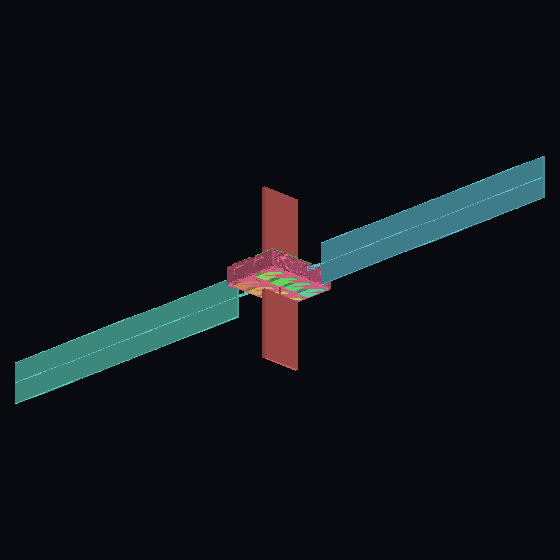
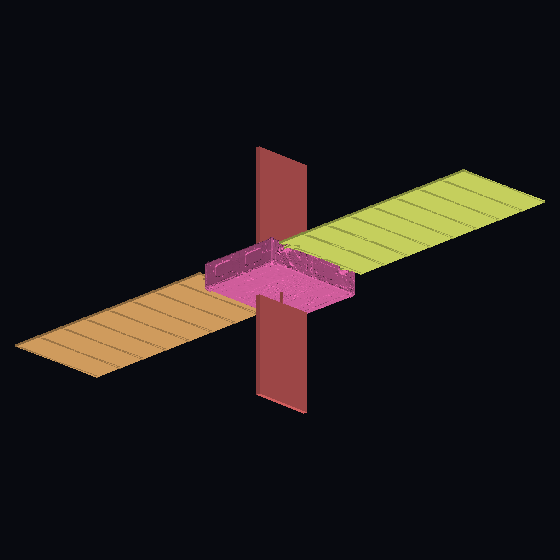
twin: redwire per user reference — flat coplanar wings on the edge lugs, the bay's own modules ARE the GPUs
The generated GPU boxes are gone: the payload bay's own row of seven
front-edge units are the discrete GPU components. The click popup is
now architecture-aware (matchSelection takes the active architecture
from state): on redwire, /Hull/...tripo_part_{13,1,15,12,14,16,11}
resolve left-to-right to "GPU module 01..07" -> GPU panel, and the
deck plate (part 9) to the structure card; other hulls that reuse the
same generic tripo part names are unaffected.

The wings are now FLAT, cell face parallel to the deck plane, bolted
straight onto the deck's two edge lugs (vertex survey of part 9:
native +-X edges each carry two lugs, y in [-0.36,-0.29]/[0.31,0.37],
z in [-0.20,-0.13]; after the 90-deg hull rotation that is x ~ +-0.50
at z = 0.081 with the deck edge at y = 0.704). No boom, no yoke — two
small hinge plates on the lugs, then clusters chain outward along Y by
their 0.816-u span, so adding panels visibly extends the wing one
cluster at a time. The tiles use the solar asset's NATIVE pose (cells
+Z, long axis across the bay — zero rotation ops); upright wings on
the other architectures are byte-identical to before. Cell area per
cluster is orientation-independent, so all physics margins are
unchanged (live check: frontier fit ok +28%/+8%, 405B analytic decode
548 W / 649 tok/s).

The redwire gallery thumbnail is re-rendered in place (same params
fingerprint, new generator output) and the stale scratch stage is
gone. e2e design_gallery/workload_panel/llm_inference green, tsc
[…]

Changed region(s): [[0.0, 0.2429, 0.9714, 0.7589]]

diff --git a/space-compute-demo/web/src/components/twin/TwinModulePopup.tsx b/space-compute-demo/web/src/components/twin/TwinModulePopup.tsx
@@ -38,6 +38,14 @@ interface Match {
 // Rack order → contiguous 1..12 server numbering (left-to-right, top-to-bottom).
 const RACK_ORDER: Record<string, number> = { UpY: 0, UnY: 1, LpY: 2, LnY: 3 }
 
+// Redwire payload bay: the asset's OWN front-edge units are the discrete
+// GPU modules (tripo part ids, ordered along the bay edge); tripo_part_9 is
+// the deck plate itself. Only consulted when the redwire architecture is
+// active — other hulls reuse the same generic tripo part names.
+const REDWIRE_GPU_MODULES: Record<string, number> = {
+  '13': 1, '1': 2, '15': 3, '12': 4, '14': 5, '16': 6, '11': 7,
+}
+
 // Backbone tripo_part_<n> → structural role.
 function structureSub(part: string): StructureSub {
   if (part === '1') return 'spine'
@@ -47,8 +55,26 @@ function structureSub(part: string): StructureSub {
   return 'antenna' // new_0 / new_1 + any other
 }
 
-function matchSelection(path: string | null): Match | null {
+function matchSelection(path: string | null, architecture?: string): Match | null {
   if (!path) return null
+
+  // Redwire bay FIRST: its hull carries the GPU modules as real sub-parts,
+  // so /Hull/…tripo_part_<n> means a clickable compute unit there — not the
+  // generic structure card the other hulls fall through to.
+  if (architecture === 'redwire') {
+    const rw = /\/Hull\/.*tripo_part_(\d+)/.exec(path)
+    if (rw) {
+      const num = REDWIRE_GPU_MODULES[rw[1]]
+      if (num != null) {
+        return {
+          kind: 'server',
+          subtitle: `GPU module ${String(num).padStart(2, '0')} · live`,
+          ref: String(num),
+        }
+      }
+      return { kind: 'structure', subtitle: 'Platform · payload bay', ref: 'spine' }
+    }
+  }
 
   // Server groups: "Servers" (single truss) or "ServersU"/"ServersD" (the
   // twin-truss tower's two segments); blades carry the matching U/D suffix.
@@ -90,7 +116,8 @@ const HEADER: Record<Kind, { title: string; swatch: string }> = {
 export function TwinModulePopup() {
   const selected  = useDemoStore((s) => s.selectedPrim)
   const selectObj = useDemoStore((s) => s.selectObject)
-  const match     = useMemo(() => matchSelection(selected), [selected])
+  const arch      = useDemoStore((s) => s.lastState?.twin_geometry?.architecture)
+  const match     = useMemo(() => matchSelection(selected, arch), [selected, arch])
 
   useEffect(() => {
     if (!match) return

diff --git a/space-compute-demo/web/src/types/messages.ts b/space-compute-demo/web/src/types/messages.ts
@@ -217,7 +217,8 @@ export interface SatelliteConfig {
 }
 
 /** Hull configuration — each is a genuinely different satellite shape. */
-export type Architecture = 'truss' | 'twin_truss' | 'blanket' | 'lumid' | 'dish';
+export type Architecture =
+  | 'truss' | 'twin_truss' | 'blanket' | 'lumid' | 'dish' | 'redwire';
 
 /** Deployable geometry knobs (Feature 3) — hull architecture + solar segment
  * count + radiator size/ratio. Drives the regenerated USD model and the

diff --git a/space-compute-demo/tools/gen_twin_satellite.py b/space-compute-demo/tools/gen_twin_satellite.py
@@ -249,18 +249,18 @@ REDWIRE_NATIVE  = 1.0          # largest native dim (Y — becomes X after rot)
 REDWIRE_NATIVE_CENTER = (0.0, 0.0, -0.2207)
 REDWIRE_TARGET_U = 1.5         # deck ≈ 2.7 m across (compact bay, ~1/3 the
                                # volume of the first 2.2-u cut per user ref)
-# Wing-yoke root along ±Y: deck half-Y after rot90 = 0.469·1.5 ≈ 0.70 —
-# seat the yoke bracket just inside the edge face.
-REDWIRE_WING_Y0 = 0.66
+# The deck's native ±X edges (→ ±Y sides after rot90) each carry TWO
+# protruding attachment lugs (survey scratchpad/find_tabs: native
+# y ∈ [−0.36,−0.29] and [0.31,0.37], z ∈ [−0.20,−0.13], main plate edge at
+# |x| ≈ 0.42, lug tips at 0.469). The solar wings bolt STRAIGHT onto those
+# lugs: flat panels whose cell face is PARALLEL to the deck plane (+Z up —
+# the asset's native orientation, no rotation at all), first cluster at the
+# deck edge, growth chaining outward cluster by cluster.
+REDWIRE_WING_Y0 = 0.71         # first panel inner edge ≈ deck edge (0.704)
+REDWIRE_WING_Z  = 0.081        # lug mid-plane (native −0.167 recentred ×1.5)
+REDWIRE_LUG_X   = (-0.50, 0.49)  # lug centres after rot90
 # Radiator boom mount: deck half-Z = 0.124·1.5 ≈ 0.185, boom roots just inside.
 REDWIRE_RAD_Z   = 0.17
-# Discrete GPU modules seated in the open bay: two rows of four, proud of
-# the deck rim so they read as independent compute units (named
-# Server_RW_<n> — the click popup resolves them to Blade 01..08).
-REDWIRE_SRV_COLS_X = (-0.54, -0.18, 0.18, 0.54)
-REDWIRE_SRV_ROWS_Y = (-0.30, 0.30)
-REDWIRE_SRV_W, REDWIRE_SRV_D, REDWIRE_SRV_H = 0.26, 0.46, 0.42
-REDWIRE_SRV_Z = 0.02           # centre: bottom near tray floor, top proud of rim
 
 # Closeup camera — a true 3/4 (from +X / -Y / above) so the solar wings (face
 # +X) AND the perpendicular radiators (face ±Y, top/bottom) are both readable.
@@ -700,32 +700,31 @@ def deployable_prototypes(include_solar: bool = True) -> str:
 
 def solar_panel(name: str, cx: float, cy: float, cz: float,
                 scale: tuple[float, float, float],
-                horizontal: bool = False) -> str:
+                flat: bool = False) -> str:
     """One solar tile. Full-asset mode: an instanceable internal reference to
     the shared /World/Satellite/_Protos/SolarTile prototype (rotate/scale/
     material live there) carrying only this tile's translate. Lite mode: a
     12-tri box with the same world footprint for the software previews.
 
-    `horizontal` lays the tile down: an extra rotateX=90 AFTER the stand-up
-    rotateY (ops apply right-to-left) turns the long axis from world Z
-    (upright wall) to world Y (low flat band along the deploy direction);
-    the cell normal stays +X either way."""
+    Upright (default): rotateY stands the panel up — long axis → world Z,
+    cell normal → +X (the truss/blanket wing walls). `flat`: NO rotation at
+    all — the asset's native pose already lies cell-face +Z with the long
+    axis along X, which is exactly the redwire deck-parallel orientation."""
     sx, sy, sz = scale
     if PREVIEW_LITE:
-        # Same world-space footprint as the rotated+scaled asset, as a
-        # 12-tri box instead of a 1.9 M-tri scan. Upright: native X → world
-        # Z (height), native Y → world Y (deploy). Horizontal: native X →
-        # world Y, native Y → world Z. Thickness is world X in both.
-        if horizontal:
+        # Same world-space footprint as the (possibly rotated) scaled asset
+        # as a 12-tri box instead of a 1.9 M-tri scan. Upright: native X →
+        # world Z (height), native Y → world Y (deploy), thickness → X.
+        # Flat: native axes ARE world axes (long X, wide Y, thin Z).
+        if flat:
             return box_mesh(name, cx, cy, cz,
-                            SOLAR_NATIVE[2] * sz, SOLAR_NATIVE[0] * sx,
-                            SOLAR_NATIVE[1] * sy, "SolarCellLite")
+                            SOLAR_NATIVE[0] * sx, SOLAR_NATIVE[1] * sy,
+                            SOLAR_NATIVE[2] * sz, "SolarCellLite")
         return box_mesh(name, cx, cy, cz,
                         SOLAR_NATIVE[2] * sz, SOLAR_NATIVE[1] * sy,
                         SOLAR_NATIVE[0] * sx, "SolarCellLite")
-    rot_x = '    float xformOp:rotateX = 90\n' if horizontal else ''
-    order = ('["xformOp:translate", "xformOp:rotateX", "xformOp:rotateY", "xformOp:scale"]'
-             if horizontal
+    rot = '' if flat else f'    float xformOp:rotateY = {PANEL_RY}\n'
+    order = ('["xformOp:translate", "xformOp:scale"]' if flat
              else '["xformOp:translate", "xformOp:rotateY", "xformOp:scale"]')
     return (
         f'def Xform "{name}" (\n'
@@ -734,8 +733,7 @@ def solar_panel(name: str, cx: float, cy: float, cz: float,
         f')\n'
         f'{{\n'
         f'    double3 xformOp:translate = ({cx:.4f}, {cy:.4f}, {cz:.4f})\n'
-        f'{rot_x}'
-        f'    float xformOp:rotateY = {PANEL_RY}\n'
+        f'{rot}'
         f'    double3 xformOp:scale = ({sx:.4f}, {sy:.4f}, {sz:.4f})\n'
         f'    uniform token[] xformOpOrder = {order}\n'
         f'}}'
@@ -743,41 +741,41 @@ def solar_panel(name: str, cx: float, cy: float, cz: float,
 
 
 def solar_cluster(prefix: str, cx: float, cy: float, cz: float,
-                  horizontal: bool = False) -> list[str]:
+                  flat: bool = False) -> list[str]:
     """A 2×2 grid of four small panels filling one full-panel footprint.
-    Upright: the big panel spans H (along Z) × D (along Y). Horizontal
-    (tiles laid down): H runs along Y and D along Z, so the quadrant
-    offsets swap axes — total cell area is identical either way (the
-    physics area formula doesn't care about orientation)."""
+    Upright: the big panel spans H (along Z) × D (along Y). Flat (redwire,
+    deck-parallel): H runs along X (across the bay) and D along Y (the
+    deploy direction), tiles in the X-Y plane — total cell area is
+    identical either way (the physics area formula doesn't care about
+    orientation)."""
     H = SOLAR_NATIVE[0] * PANEL_SCALE[0]      # full-panel long axis
     D = SOLAR_NATIVE[1] * PANEL_SCALE[1]      # full-panel deploy axis
     sub = (PANEL_SCALE[0] * SUB_FRAC, PANEL_SCALE[1] * SUB_FRAC, PANEL_SCALE[2])
     tiles = []
+    if flat:
+        for r, xs in enumerate((-1.0, 1.0)):      # two columns (X, across)
+            for c, ys in enumerate((-1.0, 1.0)):  # two rows (Y, outward)
+                tiles.append(solar_panel(f"{prefix}_{r}{c}",
+                                         cx + xs * H / 4.0, cy + ys * D / 4.0,
+                                         cz, sub, flat=True))
+        return tiles
     for r, zs in enumerate((1.0, -1.0)):          # two rows (Z)
         for c, ys in enumerate((-1.0, 1.0)):      # two columns (Y)
-            dy, dz = ((ys * H / 4.0, zs * D / 4.0) if horizontal
-                      else (ys * D / 4.0, zs * H / 4.0))
             tiles.append(solar_panel(f"{prefix}_{r}{c}",
-                                     cx, cy + dy, cz + dz, sub, horizontal))
+                                     cx, cy + ys * D / 4.0, cz + zs * H / 4.0,
+                                     sub))
     return tiles
 
 
-def solar_wing(side: float, y_root: float = 0.0,
-               horizontal: bool = False) -> str:
+def solar_wing(side: float) -> str:
     """One deployed solar wing: a thin support boom from the central bracket
     out along `side`·Y, carrying N_PANELS chained panel clusters. Each cluster
-    is a 2×2 grid of four small panels with the cell face toward +X (sun
-    side) on both wings — standing upright by default, laid flat with
-    `horizontal` (long axis along the deploy direction, so the cluster
-    pitch along Y grows from D to H). `y_root` shifts the whole wing
-    outward along its side — hull architectures whose body is wider than
-    the truss (redwire deck) seat the yoke at their edge face instead of
-    the truss bracket."""
+    is a 2×2 grid of four small panels, standing upright with the cell face
+    toward +X (sun side) on both wings."""
     s = side
-    deploy = (SOLAR_NATIVE[0] * PANEL_SCALE[0] if horizontal
-              else SOLAR_NATIVE[1] * PANEL_SCALE[1])   # per-cluster Y span
+    deploy = SOLAR_NATIVE[1] * PANEL_SCALE[1]          # per-cluster span along Y
     X, Z = SOLAR_X, SOLAR_Z
-    r = y_root
+    r = 0.0
     # Tapered deployment yoke: root bracket → hinge clevis + bright pin →
     # 3-segment stepped taper → tip fork gripping the first panel. Reads as an
     # engineered cantilever instead of a crude rod.
@@ -794,8 +792,7 @@ def solar_wing(side: float, y_root: float = 0.0,
     ]
     for i in range(N_PANELS):
         cy = (r + BOOM_Y1 + deploy / 2.0 + i * (deploy + PANEL_GAP)) * s
-        parts.extend(solar_cluster(f"Cluster{i}", SOLAR_X, cy, SOLAR_Z,
-                                   horizontal))
+        parts.extend(solar_cluster(f"Cluster{i}", SOLAR_X, cy, SOLAR_Z))
     name = "WingPosY" if side > 0 else "WingNegY"
     body = "\n".join(parts)
     return f'def Xform "{name}"\n{{\n{indent(body, "    ")}\n}}'
@@ -833,12 +830,36 @@ def blanket_wing(side: float) -> str:
     return f'def Xform "{name}"\n{{\n{indent(body, "    ")}\n}}'
 
 
+def redwire_wing(side: float) -> str:
+    """Redwire flat wing: panel face PARALLEL to the deck plane (cells +Z),
+    bolted STRAIGHT onto the deck's two edge lugs — no boom, no yoke. Two
+    small hinge plates bridge the lug tips (x ≈ ±0.5, the deck edge at
+    y ≈ 0.70) to the first cluster's inner edge; each extra cluster chains
+    outward along Y by its D span, so growing the wing visibly adds panels
+    one after another off the bay edge."""
+    s = side
+    H = SOLAR_NATIVE[0] * PANEL_SCALE[0]      # cluster span across X (1.42)
+    D = SOLAR_NATIVE[1] * PANEL_SCALE[1]      # cluster span outward Y (0.816)
+    Z = REDWIRE_WING_Z
+    parts = [
+        box_mesh(f"Hinge{'A' if lx < 0 else 'B'}",
+                 lx, (REDWIRE_WING_Y0 + 0.005) * s, Z,
+                 0.12, 0.15, 0.026, "SolarFrame")
+        for lx in REDWIRE_LUG_X
+    ]
+    for i in range(N_PANELS):
+        cy = (REDWIRE_WING_Y0 + D / 2.0 + i * (D + PANEL_GAP)) * s
+        parts.extend(solar_cluster(f"Cluster{i}", 0.0, cy, Z, flat=True))
+    name = "WingPosY" if side > 0 else "WingNegY"
+    body = "\n".join(parts)
+    return f'def Xform "{name}"\n{{\n{indent(body, "    ")}\n}}'
+
+
 def solar_group() -> str:
     if ARCHITECTURE == "blanket":
         wing = blanket_wing
     elif ARCHITECTURE == "redwire":
-        def wing(side: float) -> str:
-            return solar_wing(side, y_root=REDWIRE_WING_Y0, horizontal=True)
+        wing = redwire_wing
     else:
         wing = solar_wing
     body = wing(1.0) + "\n" + wing(-1.0)
@@ -873,33 +894,6 @@ def radiator_panel(name: str, cx: float, cy: float, cz: float) -> str:
         f'    uniform token[] xformOpOrder = ["xformOp:translate", "xformOp:rotateX", "xformOp:rotateZ", "xformOp:scale"]\n'
         f'}}'
     )
-
-
-def redwire_servers_group() -> str:
-    """Eight discrete GPU modules seated in the open payload bay — two rows
-    of four, standing through the tray opening so their heat-spreader tops
-    sit proud of the deck rim (identifiable compute units, not anonymous
-    cargo). Paths are /World/Satellite/Servers/Server_RW_<n>, which the
-    click popup's server matcher resolves to Blade 01..08 → GPU panel.
-    Plain box meshes (cheap) — identical in lite previews and Kit."""
-    parts = []
-    for n in range(8):
-        row, col = divmod(n, 4)
-        cx = REDWIRE_SRV_COLS_X[col]
-        cy = REDWIRE_SRV_ROWS_Y[row]
-        inner = "\n".join([
-            box_mesh("Chassis", cx, cy, REDWIRE_SRV_Z,
-                     REDWIRE_SRV_W, REDWIRE_SRV_D, REDWIRE_SRV_H,
-                     "ServerChassis"),
-            box_mesh("Heatsink", cx, cy,
-                     REDWIRE_SRV_Z + REDWIRE_SRV_H / 2.0 + 0.011,
-                     REDWIRE_SRV_W * 0.85, REDWIRE_SRV_D * 0.85, 0.022,
-                     "ServerHeatsink"),
-        ])
-        parts.append(f'def Xform "Server_RW_{n}"\n{{\n'
-                     f'{indent(inner, "    ")}\n}}')
-    body = "\n".join(parts)
-    return f'def Xform "Servers"\n{{\n{indent(body, "    ")}\n}}'
 
 
 def _radiator_mount_z() -> float:
@@ -1112,14 +1106,14 @@ def _architecture_parts() -> list[str]:
             radiator_group(),
         ]
     if ARCHITECTURE == "redwire":
-        # Compact flat payload bay; rotateZ=90 turns the avionics-module row
-        # to the +X (sun/camera) face, discrete GPU modules stand in the
-        # open tray, wings (laid horizontal) deploy off the clean ±Y edges,
-        # radiators off the ±Z deck faces.
+        # Compact flat payload bay; rotateZ=90 turns the bay's row of
+        # DISCRETE GPU MODULES (the asset's own front-edge units — the
+        # popup maps them to the GPU panel) to the +X sun/camera face,
+        # flat deck-parallel wings bolt onto the ±Y edge lugs, radiators
+        # boom off the ±Z deck faces.
         return [
             _hull_prim(REDWIRE_REF, REDWIRE_NATIVE, REDWIRE_TARGET_U,
                        REDWIRE_NATIVE_CENTER, rotate_z=90.0),
-            redwire_servers_group(),
             solar_group(),
             radiator_group(),
         ]
@@ -1160,9 +1154,8 @@ def _frame_radius_cm() -> float:
         hull_u = LUMID_TARGET_U if ARCHITECTURE == "lumid" else DISH_TARGET_U
         solar_tip = (hull_u / 2.0) * BACKBONE_SCALE
     elif ARCHITECTURE == "redwire":
-        # Horizontal tiles: the per-cluster Y pitch is the LONG axis H.
-        h_pitch = SOLAR_NATIVE[0] * PANEL_SCALE[0]
-        solar_tip = (REDWIRE_WING_Y0 + BOOM_Y1 + N_PANELS * h_pitch) * BACKBONE_SCALE
+        # Flat wings chain outward by their D span, straight off the deck edge.
+        solar_tip = (REDWIRE_WING_Y0 + N_PANELS * deploy) * BACKBONE_SCALE
     else:
         solar_tip = (BOOM_Y1 + N_PANELS * deploy) * BACKBONE_SCALE
     rad_tip = (_radiator_mount_z() + RAD_BOOM_LEN + RAD_LONG) * BACKBONE_SCALE

diff --git a/space-compute-demo/backend/design_presets.py b/space-compute-demo/backend/design_presets.py
@@ -81,10 +81,10 @@ PRESETS: dict[str, DesignPreset] = {p.id: p for p in [
         tagline="8x H200 · flat payload bay · frontier 405B serving",
         description=(
             "A dedicated LLM-serving node on a compact Redwire-style payload "
-            "bay: eight discrete H200 modules stand in the open tray running "
-            "Llama-405B as one tensor-parallel group, long horizontal GaAs "
-            "wings deploy off the bay edges and OSR radiators off the deck "
-            "faces."
+            "bay: the bay's own row of discrete GPU modules runs Llama-405B "
+            "as one tensor-parallel group, flat GaAs wings bolt onto the "
+            "bay-edge lugs coplanar with the deck, and OSR radiators boom "
+            "off the deck faces."
         ),
         config=SatelliteConfig(
             gpu="H200", solar_material="GaAs", solar_size="M",

diff --git a/README.md b/README.md
@@ -42,7 +42,7 @@ Geometry is parameterised at runtime via `usd/twin_params.json` (written by the 
 3. **Deployables editing** — the *Deployables* controls add/remove solar clusters (sides only) and resize / reshape the radiators; each change regenerates the USD model and reloads it in Kit.
 4. **Real-time physics** — solar illumination · panel area × efficiency · GPU workload · device power · radiator area × emissivity all feed a live power / thermal balance shown in the status cards and component panels. Editing the geometry changes the numbers immediately. See **[docs/physics.md](docs/physics.md)** for the full model.
 5. **Design library** — the *Designs* chip on the Twin page opens a gallery of complete satellite designs (`backend/design_presets.py`), each with a software-rendered thumbnail (`GET /designs/{id}/preview.png`, cached) and derived stats. Applying one (`POST /designs/{id}/apply`) switches the hardware loadout, deployable geometry (USD regen + Kit layer reload), GPU workload profile and platform constants together; hand-editing any knob afterwards degrades the active design to `custom`.
-6. **Six hull architectures** — each design is a genuinely different satellite shape (`twin_params.json` `architecture`): the classic single-truss, a 24-blade twin-truss tower, ISS-style ribbon blanket wings, the LUMID smallsat with integrated cross panels, a parabolic-dish comms hull with windmill wings, and the Redwire-style flat payload bay (GPUs inside the deck, avionics row on the sun face) with generated GaAs wings off the bay edges and boom radiators off the deck faces. Physics areas follow the architecture.
+6. **Six hull architectures** — each design is a genuinely different satellite shape (`twin_params.json` `architecture`): the classic single-truss, a 24-blade twin-truss tower, ISS-style ribbon blanket wings, the LUMID smallsat with integrated cross panels, a parabolic-dish comms hull with windmill wings, and the Redwire-style flat payload bay (its own row of discrete GPU modules faces the sun side, each independently clickable → GPU panel) with flat deck-parallel GaAs wings bolted onto the bay-edge lugs — added panels chain outward one by one — and boom radiators off the deck faces. Physics areas follow the architecture.
 7. **Typed AI workloads** — every schedule block runs a concrete job (`backend/ai_workloads.py`): Llama-3.3-70B pretraining/inference, Llama-3.1-8B fine-tuning, ViT-L/16 EO detection — resolved against the fitted GPU's dense datasheet TFLOPS into per-card MFU, effective TFLOPS, tokens/s / frames/s and heat, live in `satellite.workload_detail` and the GPU module popup.
 8. **Live orbital motion on the Twin page** — in the Kit close-up the Earth rotates under the live sub-satellite point and the sun disk + key light sweep the true zenith→sun angle (`satellite.sun_cos`), so ground track, day/night passes and eclipses play out in the viewport; with the stream offline the viewport falls back to a real-orbit chase view (`TwinOrbitFallback`) of the tracked satellite gliding along its SGP4-propagated ring, and the MiniOrbitHud reticle animates on a frame-rate-extrapolated sim clock. The backend refreshes the tracked satellite's kinematics on every `/state` read (single cached-Satrec sgp4 call), so Kit's 5 Hz poll sees continuous motion instead of 1 Hz steps.
 9. **Workload selector** — the *Workload* section in the Configurator switches the GPU job schedule live (`POST /workload_profile`); every option is annotated with how the current design copes (`GET /workload_profiles`: average demand vs solar supply, thermal ceiling, fit verdict, expected tokens/frames/kWh per cycle), and the panel shows the running job's model, MFU, effective TFLOPS, rate, electrical draw, per-GPU heat, radiated power and the cumulative output since the switch.

diff --git a/README.zh-CN.md b/README.zh-CN.md
@@ -42,7 +42,7 @@
 3. **可展开结构编辑** —— *Deployables* 控件用于增减太阳能板簇（仅限两侧）、调整散热板的大小与比例；每次改动都会重新生成 USD 模型并在 Kit 中重载。
 4. **实时物理** —— 太阳光照 · 面板面积 × 效率 · GPU 负载 · 设备功耗 · 散热板面积 × 发射率，统一汇入实时功率 / 热平衡，显示在状态卡片与组件面板中。改动几何，数字立即更新。完整模型见 **[docs/physics.zh-CN.md](docs/physics.zh-CN.md)**。
 5. **单星设计库** —— Twin 页顶部的 *Designs* 入口打开设计库窗口（`backend/design_presets.py`）：每个完整设计带软件渲染的缩略图（`GET /designs/{id}/preview.png`，带缓存）与派生参数卡。点击应用（`POST /designs/{id}/apply`）即一键切换硬件配置、可展开几何（USD 重新生成 + Kit 层重载）、GPU workload 档案与平台常数；之后手动改任何参数会把当前设计降级为 `custom`。
-6. **六种整星构型** —— 每个设计是真正不同的卫星形态（`twin_params.json` 的 `architecture`）：经典单桁架、24 刀片双桁架塔、ISS 式长条毯式翼、自带十字翼的 LUMID 小卫星、带抛物面天线的风车翼通信星，以及 Redwire 式扁平载荷舱（GPU 藏在舱内、电子设备列朝阳面，生成式 GaAs 太阳翼挂舱体两缘、支杆散热板出舱面）。物理面积随构型切换。
+6. **六种整星构型** —— 每个设计是真正不同的卫星形态（`twin_params.json` 的 `architecture`）：经典单桁架、24 刀片双桁架塔、ISS 式长条毯式翼、自带十字翼的 LUMID 小卫星、带抛物面天线的风车翼通信星，以及 Redwire 式扁平载荷舱（舱体自带的一排独立 GPU 组件朝阳面，逐个可点击弹出 GPU 面板；平板 GaAs 太阳翼与舱面平行、直接栓在舱缘凸耳上，加板时向外逐块延伸；支杆散热板出舱面）。物理面积随构型切换。
 7. **类型化 AI workload** —— 每个作业块都是具体任务（`backend/ai_workloads.py`）：Llama-3.3-70B 预训练/推理、Llama-3.1-8B 微调、ViT-L/16 对地检测——按所装 GPU 的数据手册稠密算力解析为每卡 MFU、有效 TFLOPS、tokens/s / frames/s 与产热，实时暴露于 `satellite.workload_detail` 与 GPU 模块弹窗。
 8. **Twin 页实时轨道运动** —— Kit 特写中，地球随实时星下点转动、太阳圆盘与主光沿真实天顶-太阳夹角（`satellite.sun_cos`）扫掠：地面轨迹、昼夜交替、进出地影都在视口中真实上演；流离线时视口回退为真实轨道追踪视图（`TwinOrbitFallback`），被跟踪卫星沿 SGP4 传播的轨道环滑行，左下 HUD 的卫星标记也在帧率级外插时钟上平滑运动。后端在每次 `/state` 读取时刷新被跟踪卫星的运动学（单次缓存 Satrec sgp4 调用），Kit 的 5Hz 轮询看到的是连续运动而非 1Hz 台阶。
 9. **Workload 选择器** —— Configurator 的 *Workload* 区实时切换 GPU 作业表（`POST /workload_profile`）；每个选项标注当前设计的适配度（`GET /workload_profiles`：平均需求 vs 太阳供给、散热上限、fit 判定、每周期预期 tokens/frames/kWh），面板实时显示在跑任务的模型、MFU、有效 TFLOPS、速率、电功耗、每卡产热、辐射功率与切换以来的累计产出。
